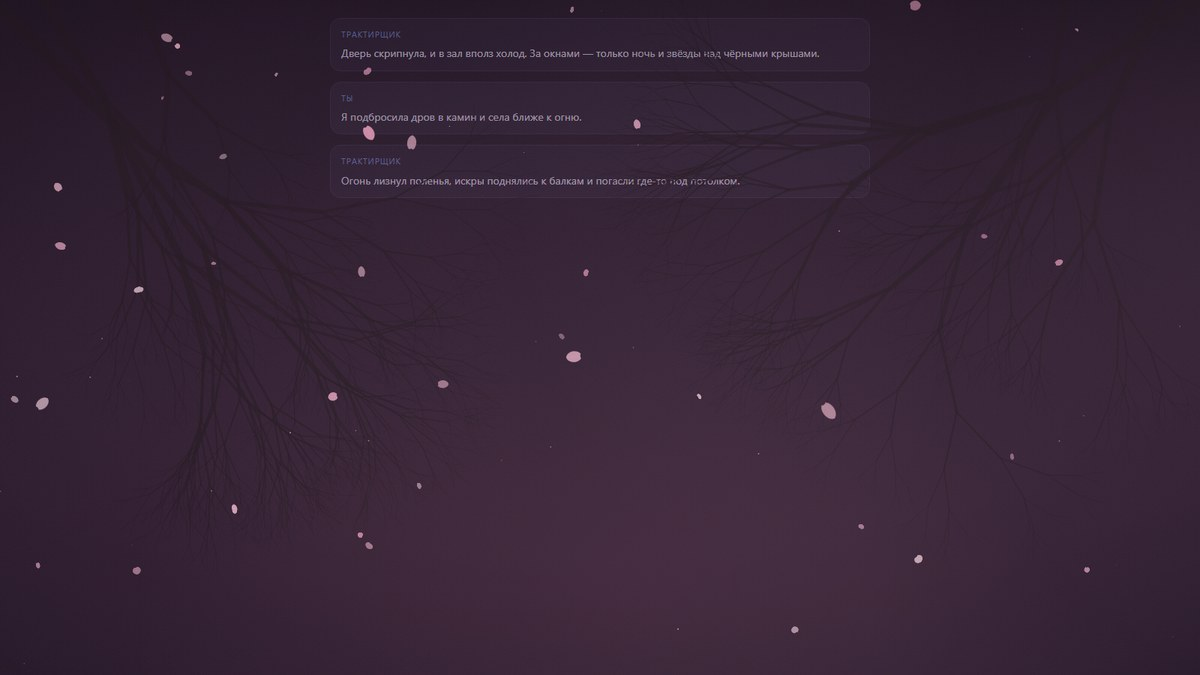
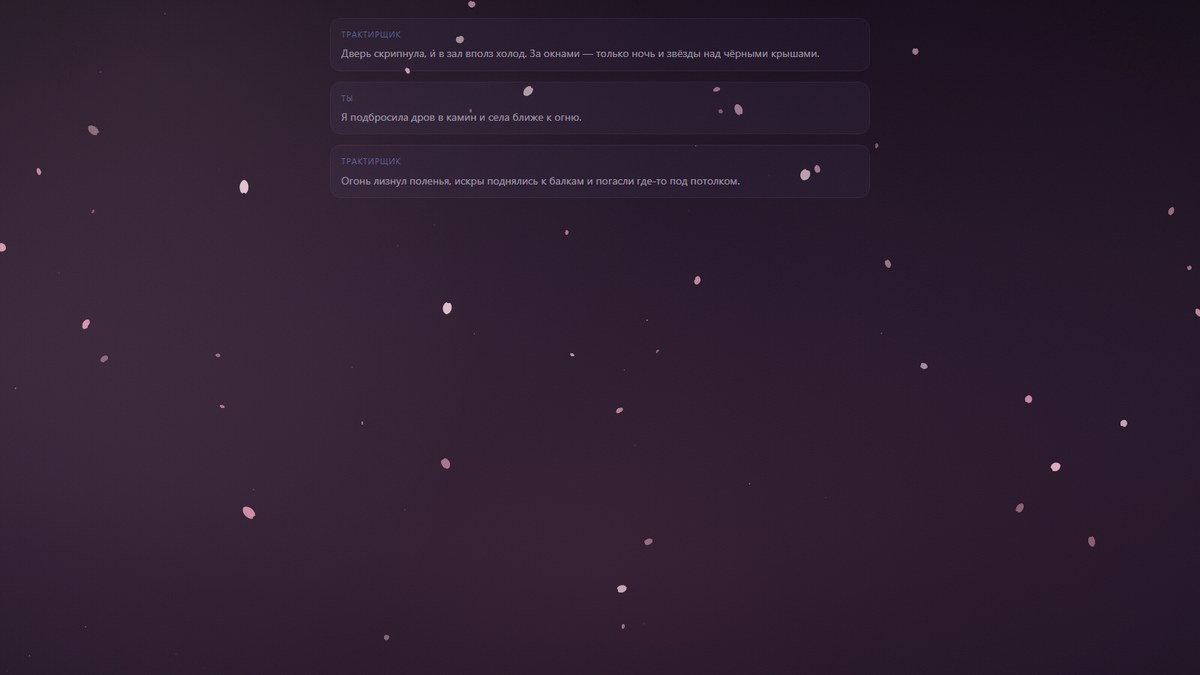
0.3.4: much smaller branches in autumn and sakura

diff --git a/src/scenes.js b/src/scenes.js
@@ -208,7 +208,7 @@ export const SCENES = [
         sky: 'autumn',
         grade: { shade: 1, tint: 'rgba(92,42,16,.16)' },
         layers: [
-            { effect: 'branches', params: { color: '10,7,9', alpha: 0.85, depth: 7, scale: 1.1, sides: ['left', 'right'] } },
+            { effect: 'branches', params: { color: '10,7,9', alpha: 0.75, depth: 6, scale: 0.75, sides: ['left', 'right'] } },
             { effect: 'leaves', params: { shape: 'leaf', size: 1, count: 34 } },
             { effect: 'mist', params: { color: '164,124,96' }, intensity: 0.45 },
             { effect: 'motes', params: { color: '255,196,130', size: 0.6 }, intensity: 0.45 },
@@ -234,7 +234,7 @@ export const SCENES = [
         sky: 'sakura',
         grade: { shade: 1, tint: 'rgba(122,40,82,.14)' },
         layers: [
-            { effect: 'branches', params: { color: '20,12,20', alpha: 0.8, depth: 7, scale: 1.05, sides: ['left', 'right'] } },
+            { effect: 'branches', params: { color: '20,12,20', alpha: 0.72, depth: 6, scale: 0.72, sides: ['left', 'right'] } },
             { effect: 'leaves', params: { shape: 'petal', size: 0.95, count: 48 } },
             { effect: 'mist', params: { color: '232,182,204' }, intensity: 0.4 },
             { effect: 'motes', params: { color: '255,214,232', size: 0.55 }, intensity: 0.5 },

diff --git a/src/effects/branches.js b/src/effects/branches.js
@@ -65,8 +65,11 @@ registerEffect({
             const g = c.getContext('2d');
             g.setTransform(dpr, 0, 0, dpr, 0, 0);
 
-            const len = Math.min(w, h) * 0.26 * scale;
-            const width = Math.max(5, Math.min(w, h) * 0.016) * scale;
+            /* Ветви — только намёк в углах, поэтому длина привязана к меньшей
+               стороне и намеренно скромная: на телефоне они не должны лезть
+               в чат. scale из сцены подкручивает ещё и от себя. */
+            const len = Math.min(w * 0.13, h * 0.10) * scale;
+            const width = Math.max(2, Math.min(w, h) * 0.006) * scale;
 
             if (sides.includes('left')) {
                 branch(g, -w * 0.03, -h * 0.04, rnd(0.55, 0.8), len * 1.15, width, depth, color, alpha);

diff --git a/demo/demo.html b/demo/demo.html
@@ -91,7 +91,7 @@ function applyScene(id) {
 }
 
 const ui = createUI({
-    version: '0.3.3',
+    version: '0.3.4',
     scenes: SCENES,
     getSettings: () => settings,
     setScene: (id) => applyScene(id),

diff --git a/index.js b/index.js
@@ -98,7 +98,7 @@ function rememberChat() {
 
 const engine = new Engine();
 
-const VERSION = '0.3.3';
+const VERSION = '0.3.4';
 
 const ui = createUI({
     version: VERSION,

diff --git a/CHANGELOG.md b/CHANGELOG.md
@@ -1,5 +1,13 @@
 # Changelog
 
+## 0.3.4 — smaller branches
+
+- **Branches are now small twigs in the top corners** instead of half-screen canopies: the length
+  is capped against both width and height (13% / 10%) and the stroke is thinner, so they read as a
+  hint and never crawl over the chat.
+- Length is no longer based on the shorter side alone, so on phones the twigs stay visible while
+  staying proportional.
+
 ## 0.3.3 — branches for autumn and sakura
 
 - **New effect `branches`:** dark bare-branch silhouettes hanging from the top corners, generated
